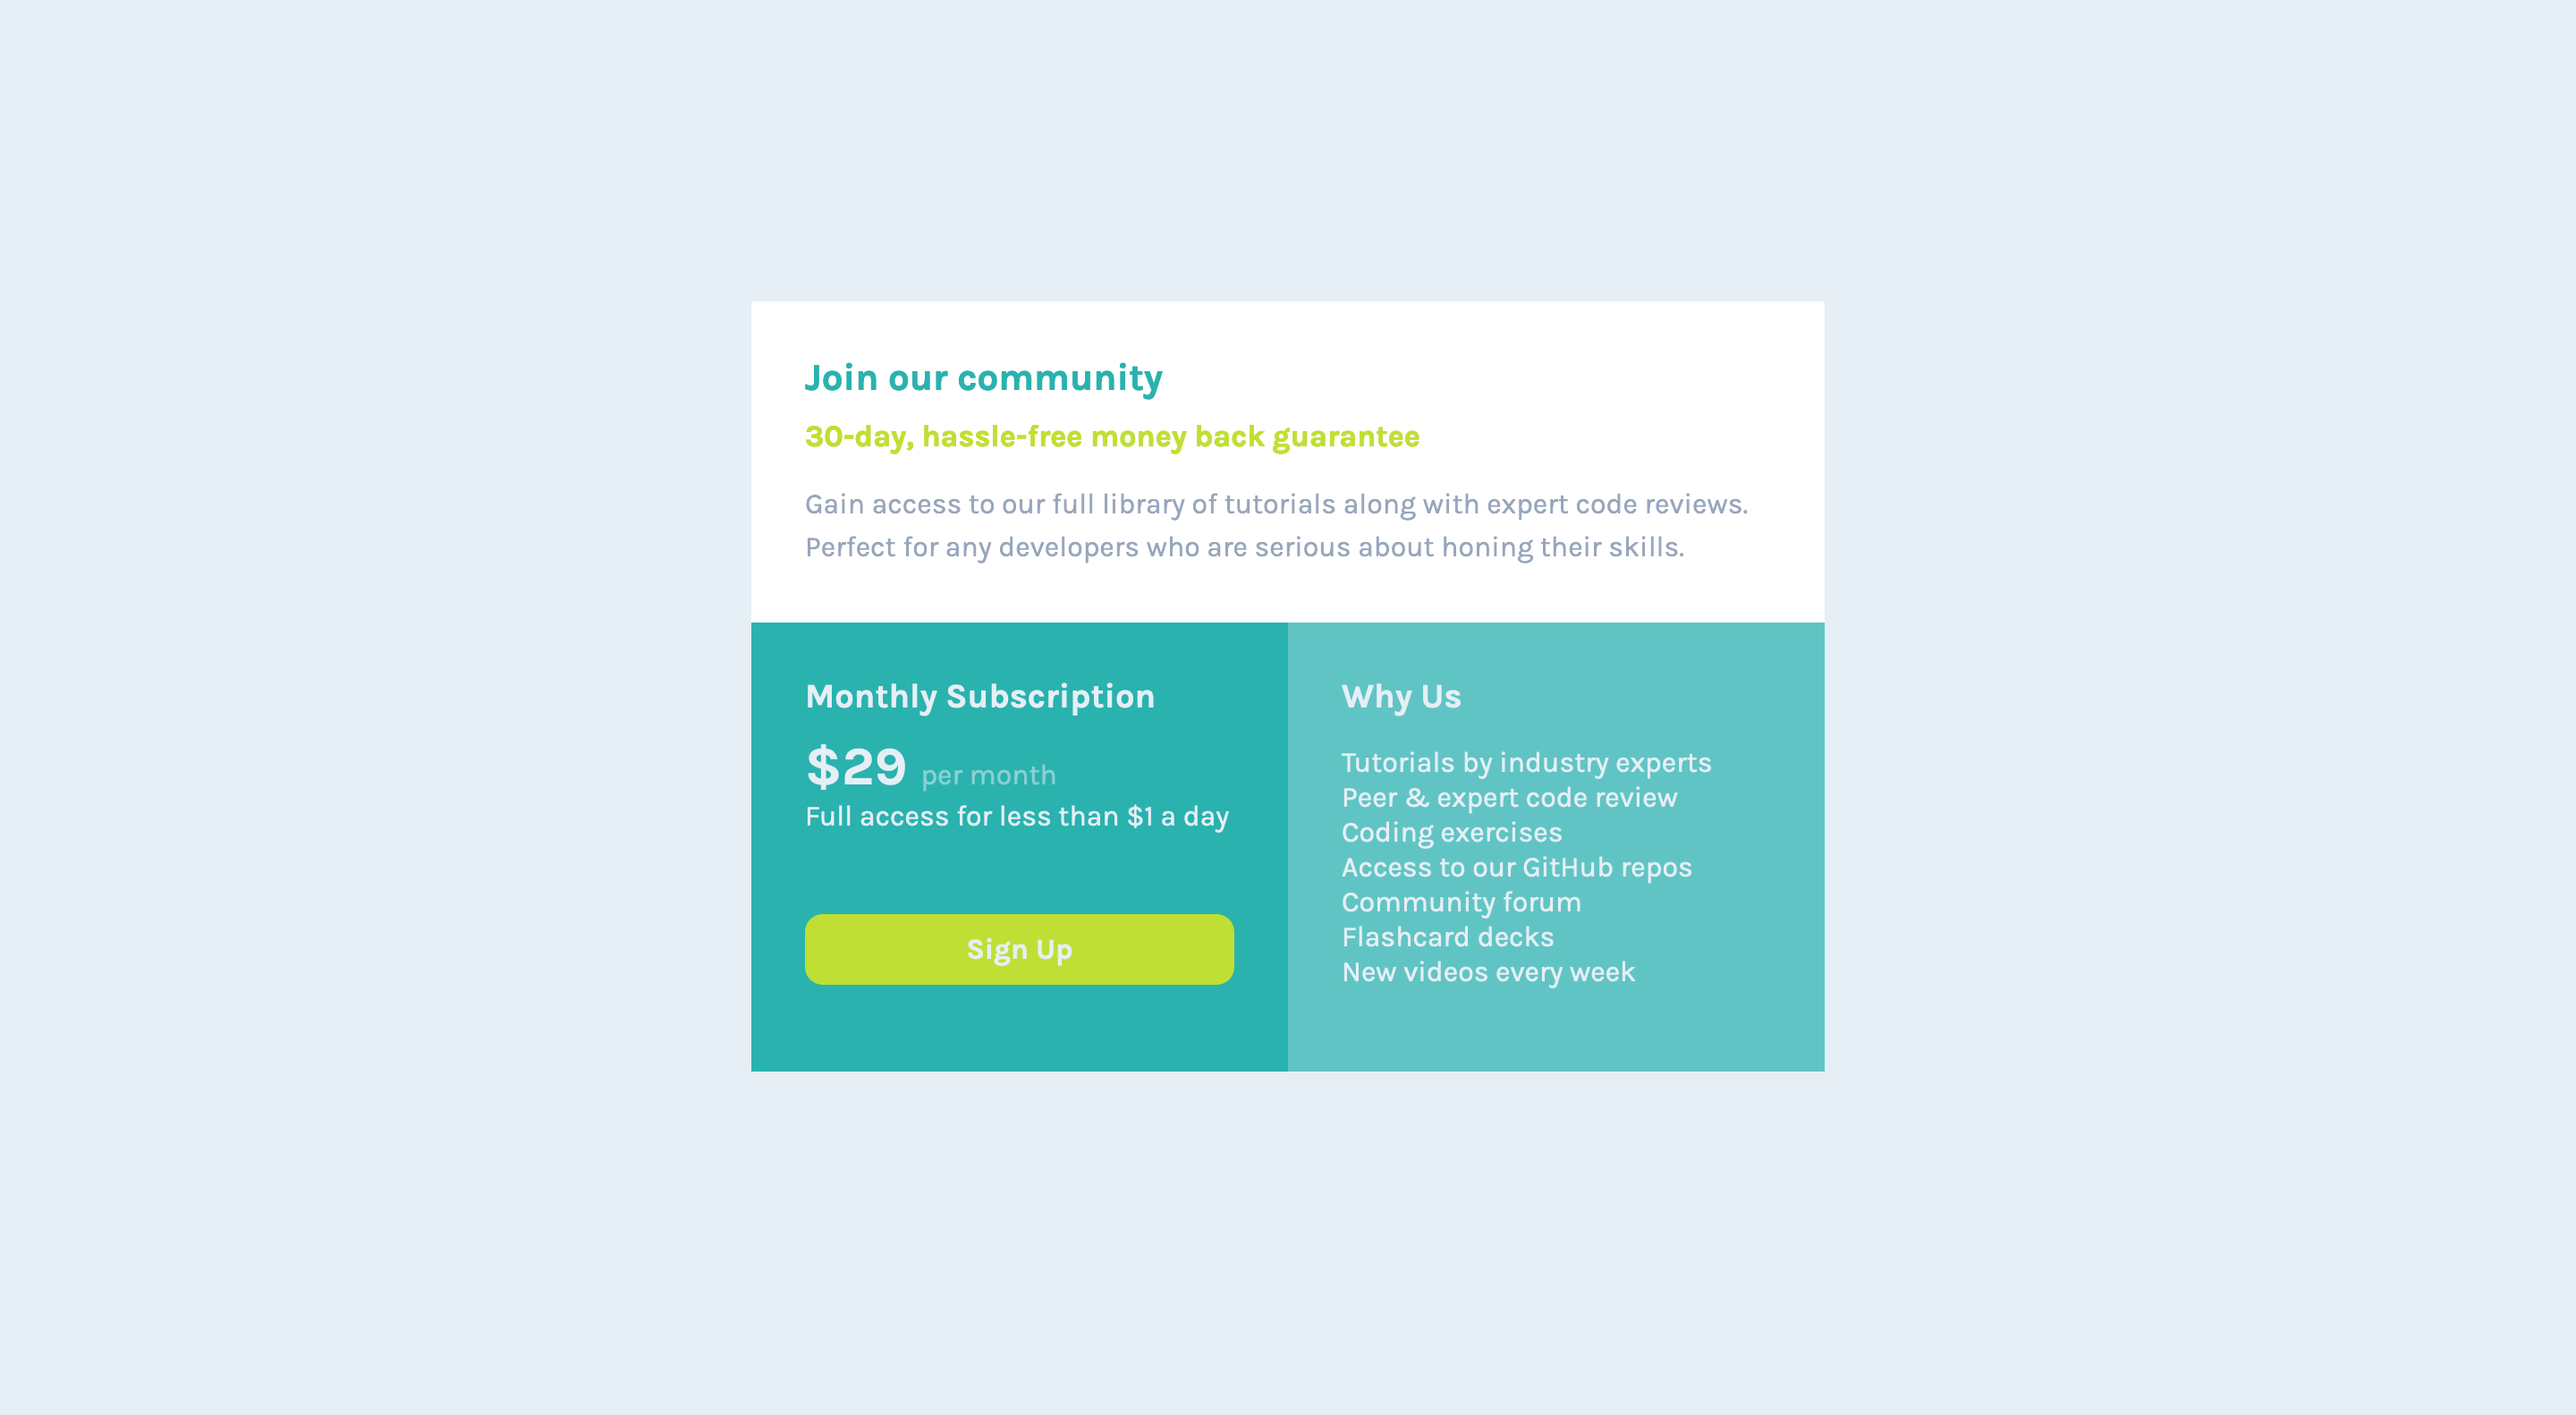
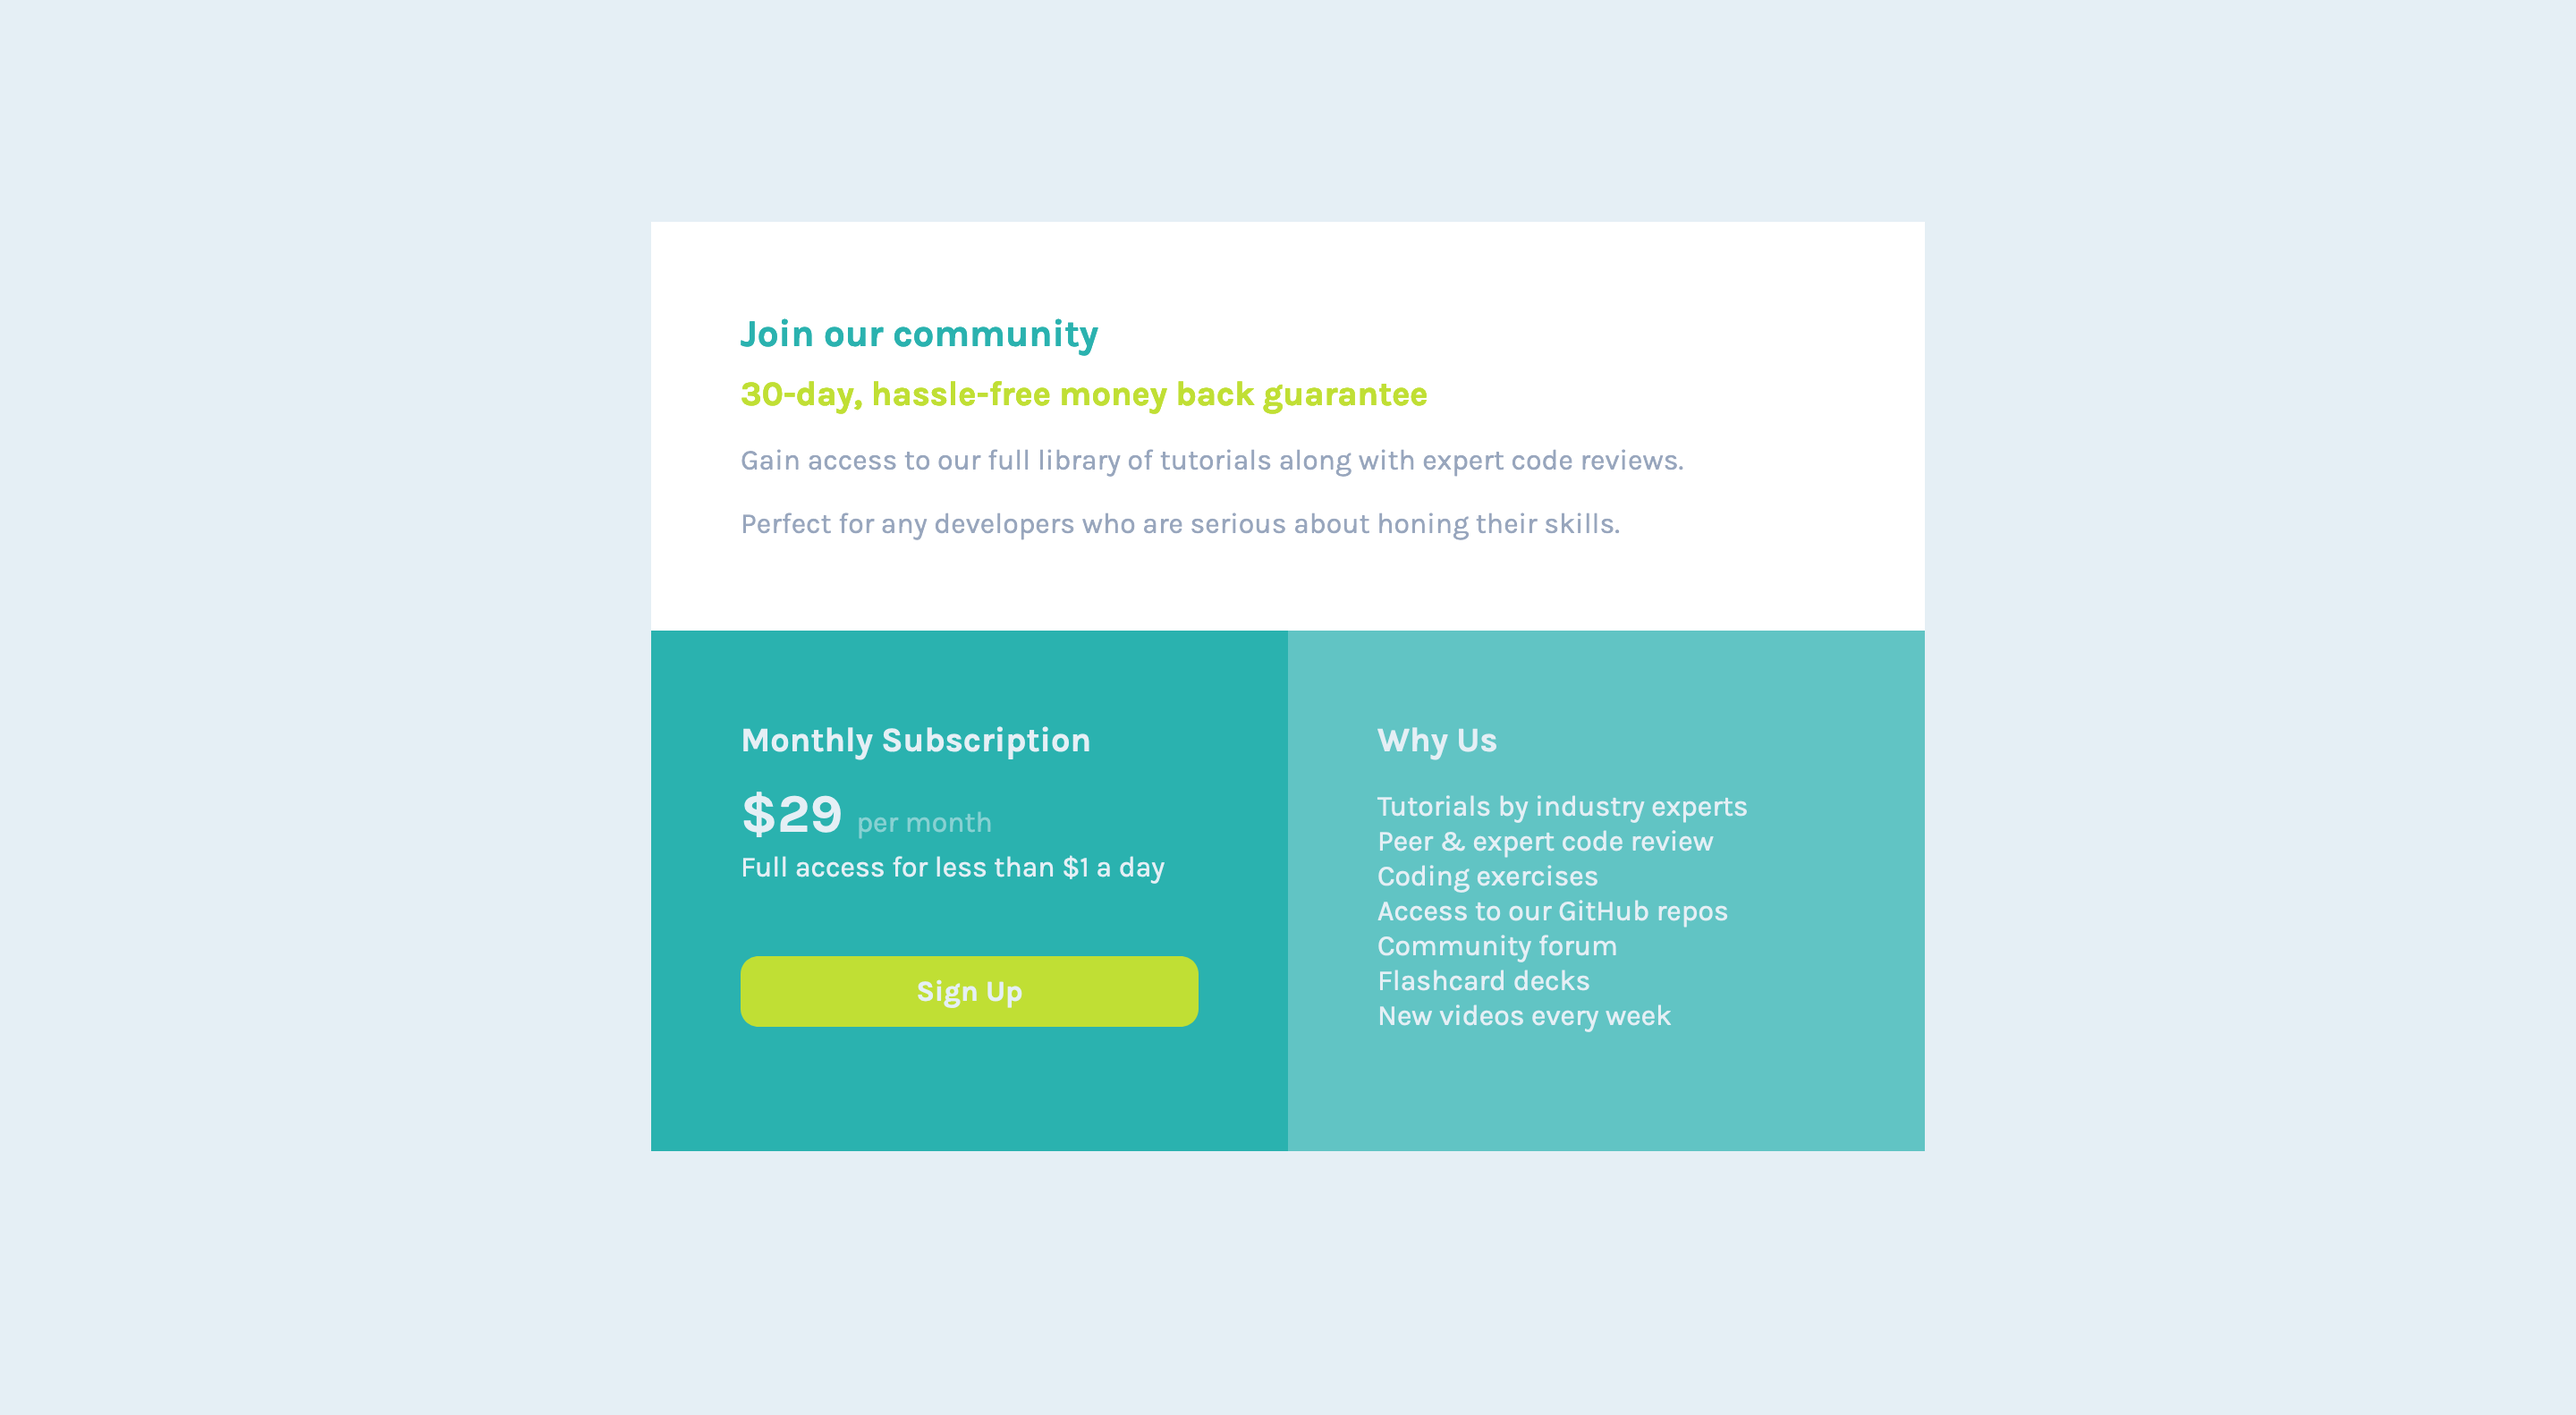
Minor improvements

Changed region(s): [[0.25, 0.1549, 0.75, 0.8363]]

diff --git a/index.html b/index.html
@@ -17,12 +17,13 @@
 </head>
 
 <body>
-  <main class="container">
+  <main>
     <section class="first-column">
       <h1>Join our community</h1>
       <h2>30-day, hassle-free money back guarantee</h2>
-      <p>Gain access to our full library of tutorials along with expert code reviews. Perfect for any developers who are
-        serious about honing their skills.</p>
+      <p>Gain access to our full library of tutorials along with expert code reviews. </p>
+      <p>Perfect for any developers who are serious about honing their skills.
+      </p>
     </section>
 
     <section class="second-column">
@@ -30,7 +31,7 @@
       <div class="subscription-info">
         <p class="price">&dollar;29 <span>per month</span></p>
         <p>Full access for less than &dollar;1 a day</p>
-      </div> 
+      </div>
       <a href="#">Sign Up</a>
     </section>
 
@@ -46,7 +47,8 @@
         <li>New videos every week</li>
       </ul>
     </section>
-  </main> <!-- Container-->
+
+  </main>
 </body>
 
 </html>

diff --git a/css/style.css b/css/style.css
@@ -53,7 +53,7 @@ h3 {
     margin-bottom: 1rem;
 }
 
-.container {
+main {
     margin: 2rem;
 }
 
@@ -72,13 +72,12 @@ h3 {
 .first-column,
 .second-column,
 .third-column {
-    padding: 3rem;
+    padding: 5rem;
 }
 
 .first-column p {
     color: var(--GrayishBlue);
     margin-bottom: 0;
-    line-height: 1.5;
 }
 
 .third-column p {
@@ -87,6 +86,7 @@ h3 {
 
 .subscription-info p {
     margin: 0;
+    padding-top: .2rem;
 }
 
 .subscription-info span {
@@ -124,10 +124,10 @@ ul {
 
 @media (min-width: 768px) {
 
-    .container {
+    main {
         display: grid;
         grid-template-columns: repeat(2, minmax(0, 1fr));
-        max-width: 60rem;
+        width: 50%;
     }
 
     .first-column {
